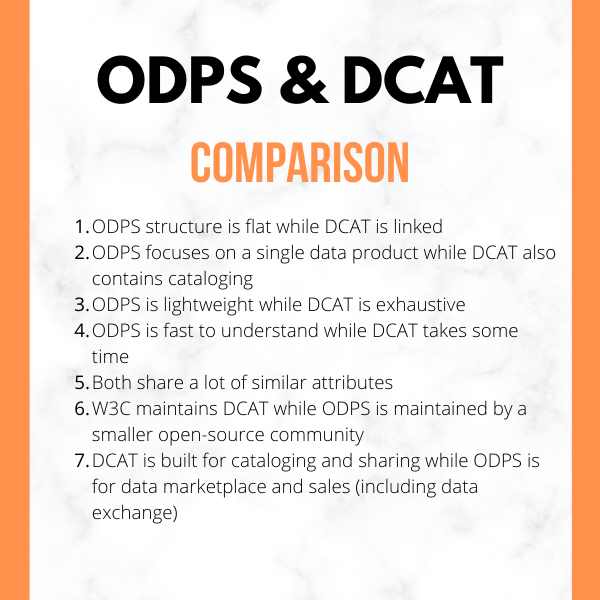
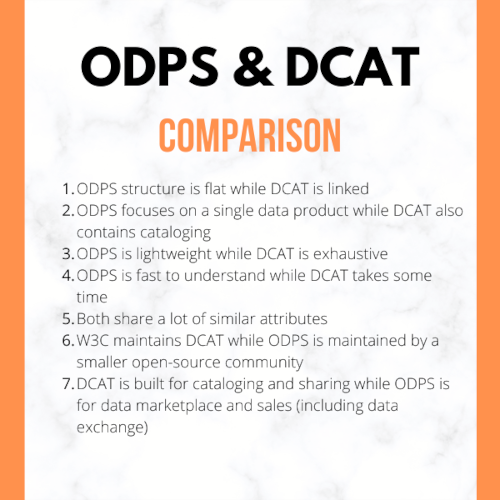
update

diff --git a/_includes/cases.html b/_includes/cases.html
@@ -192,7 +192,7 @@
                 DCAT is extensive standard but not suitable for marketplace purposes in which data known as open data will be served both as open data without costs, but also with commercial plans. Open Data offering has 
                 lacked quality as well. With ODPS a clear 7 indicator data quality framework is added to the metadata. 
             </p>
-            <p>
+            <p style="padding-left: 20px;padding-right: 20px;text-align: center; margin-top: 50px;">
               <img src="img/odps-dcat.png"/>
             </p>
             <p>In addition to that, in order to take full advantage of open data, it must be treated as data product and be offered side by side with private sector commercial data. Data consumer 
